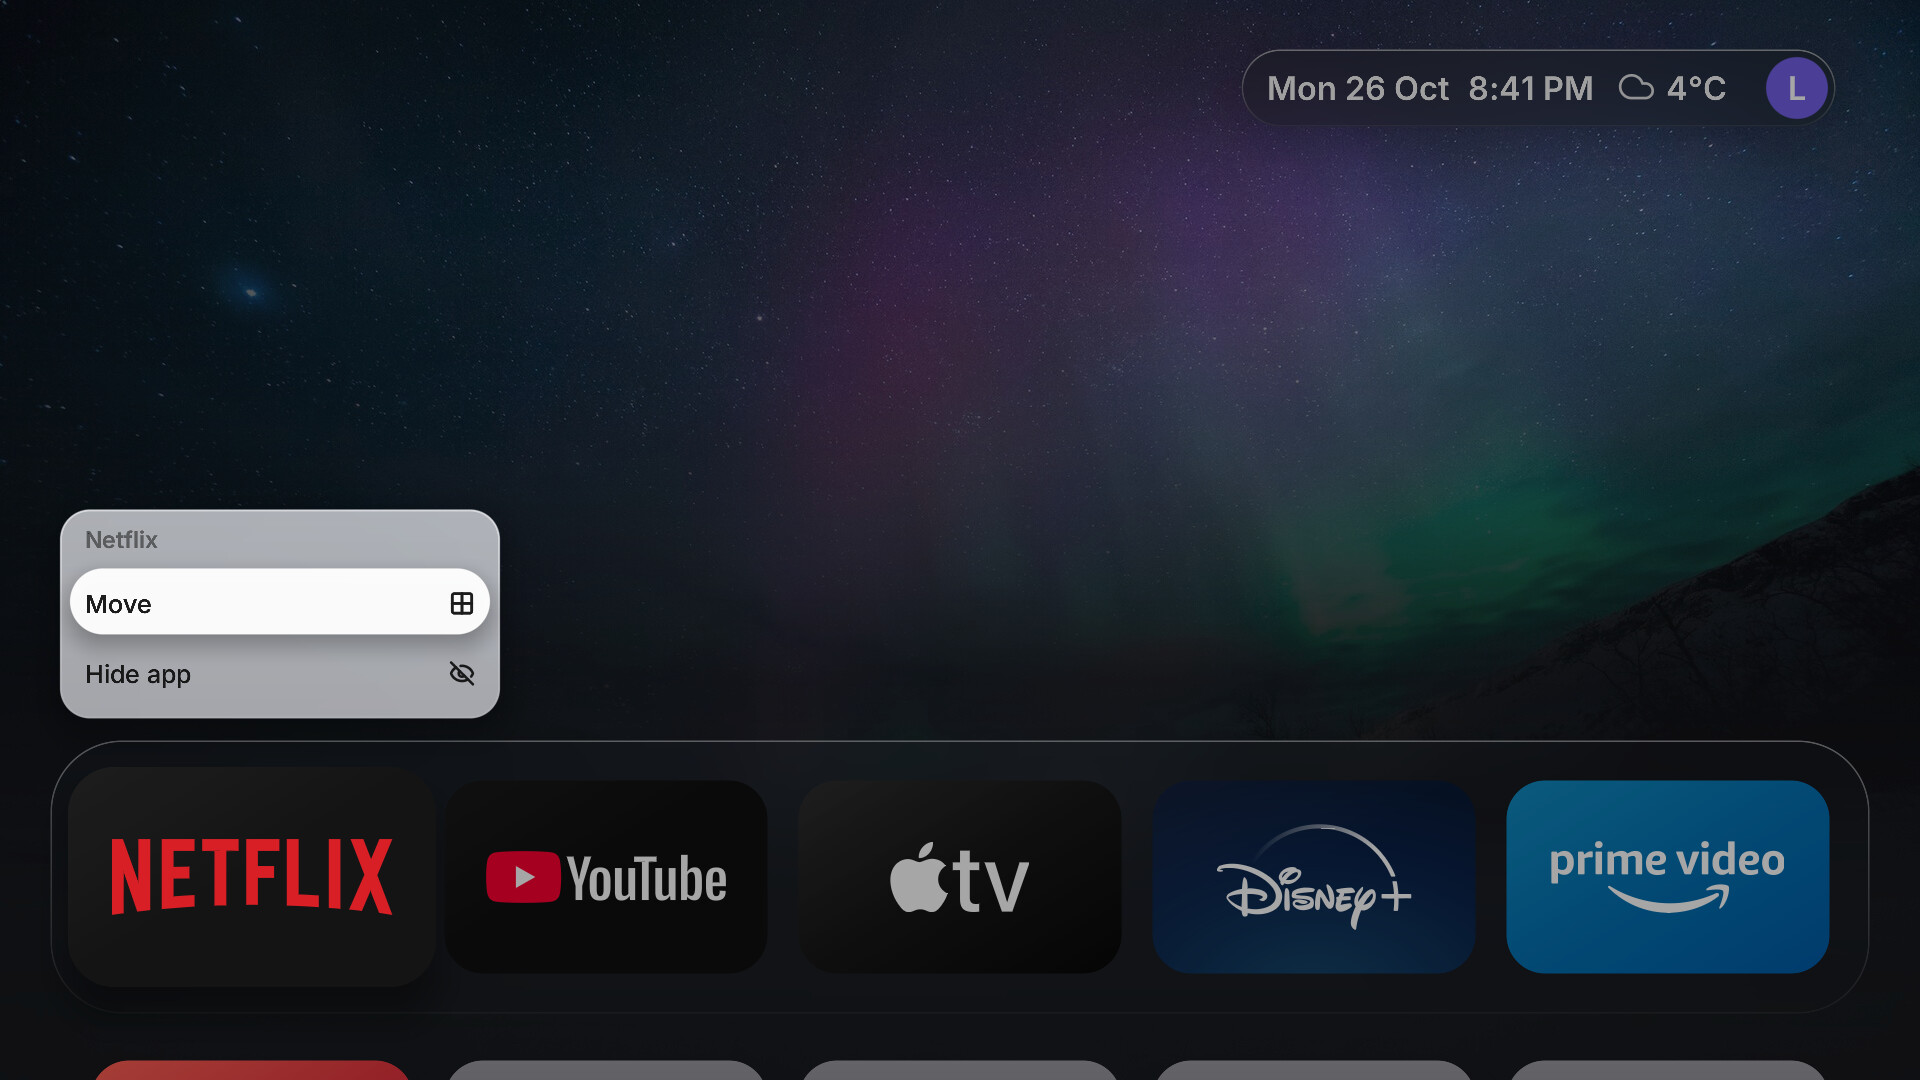
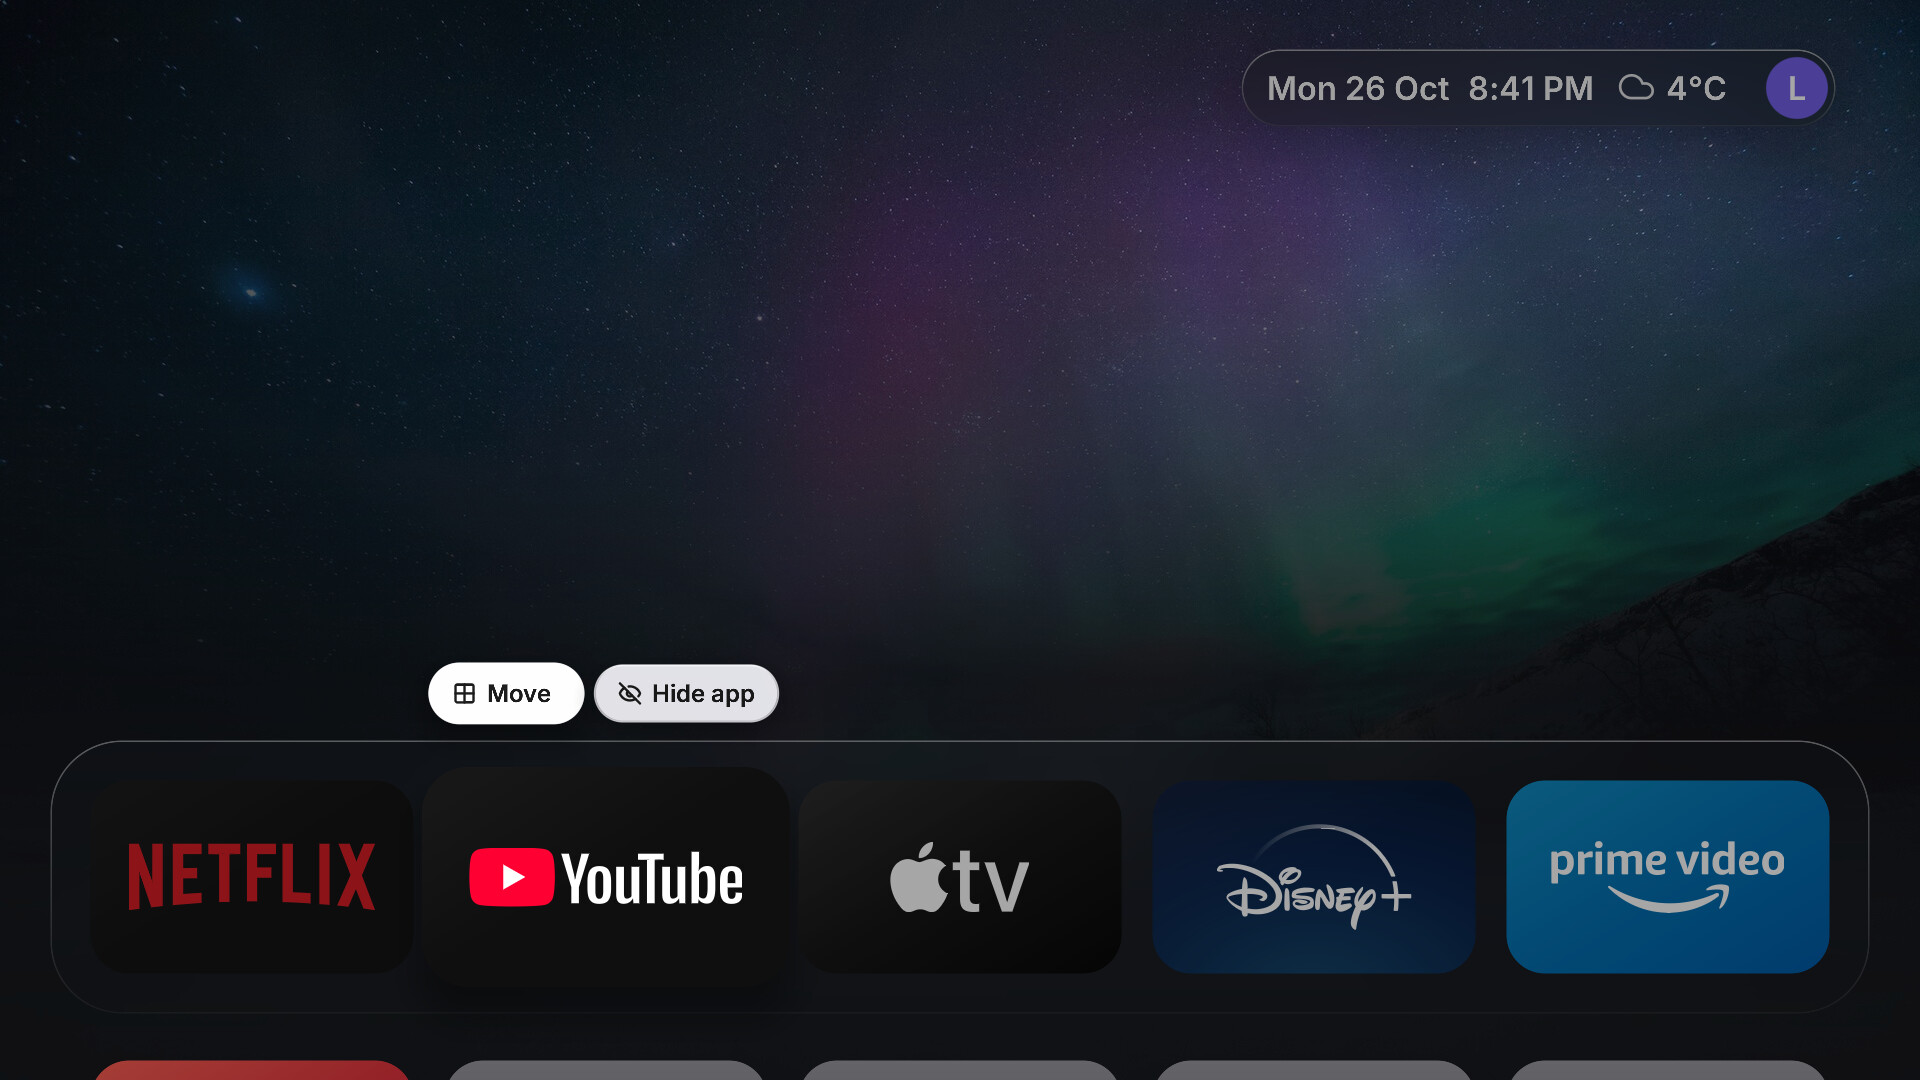
README and showcase images: the new app actions and glass

Changed region(s): [[0.0312, 0.4583, 0.4062, 0.6722], [0.0312, 0.7639, 0.4062, 0.8556]]

diff --git a/readme.md b/readme.md
@@ -43,7 +43,7 @@ Native, fast and quiet, so the only thing you notice is what you came to watch.
     <td align="center"><sub><b>The app switcher</b>: Back on Home shows what is open</sub></td>
   </tr>
   <tr>
-    <td width="50%"><img src="docs/readme/menu.jpg" alt="Holding OK on an app opens a glass menu beside it"></td>
+    <td width="50%"><img src="docs/readme/menu.jpg" alt="Holding OK on an app shows Move and Hide as glass pills against it"></td>
     <td width="50%"><img src="docs/readme/move.jpg" alt="Moving an app along the dock"></td>
   </tr>
   <tr>
@@ -60,7 +60,7 @@ Native, fast and quiet, so the only thing you notice is what you came to watch.
   </tr>
   <tr>
     <td width="50%"><img src="docs/readme/light-settings.jpg" alt="Settings in the Light appearance"></td>
-    <td width="50%"><img src="docs/readme/light-menu.jpg" alt="The app menu in the Light appearance"></td>
+    <td width="50%"><img src="docs/readme/light-menu.jpg" alt="App actions in the Light appearance"></td>
   </tr>
   <tr>
     <td align="center"><sub><b>Light</b>, <b>Dark</b> or <b>Automatic</b> by time of day</sub></td>
